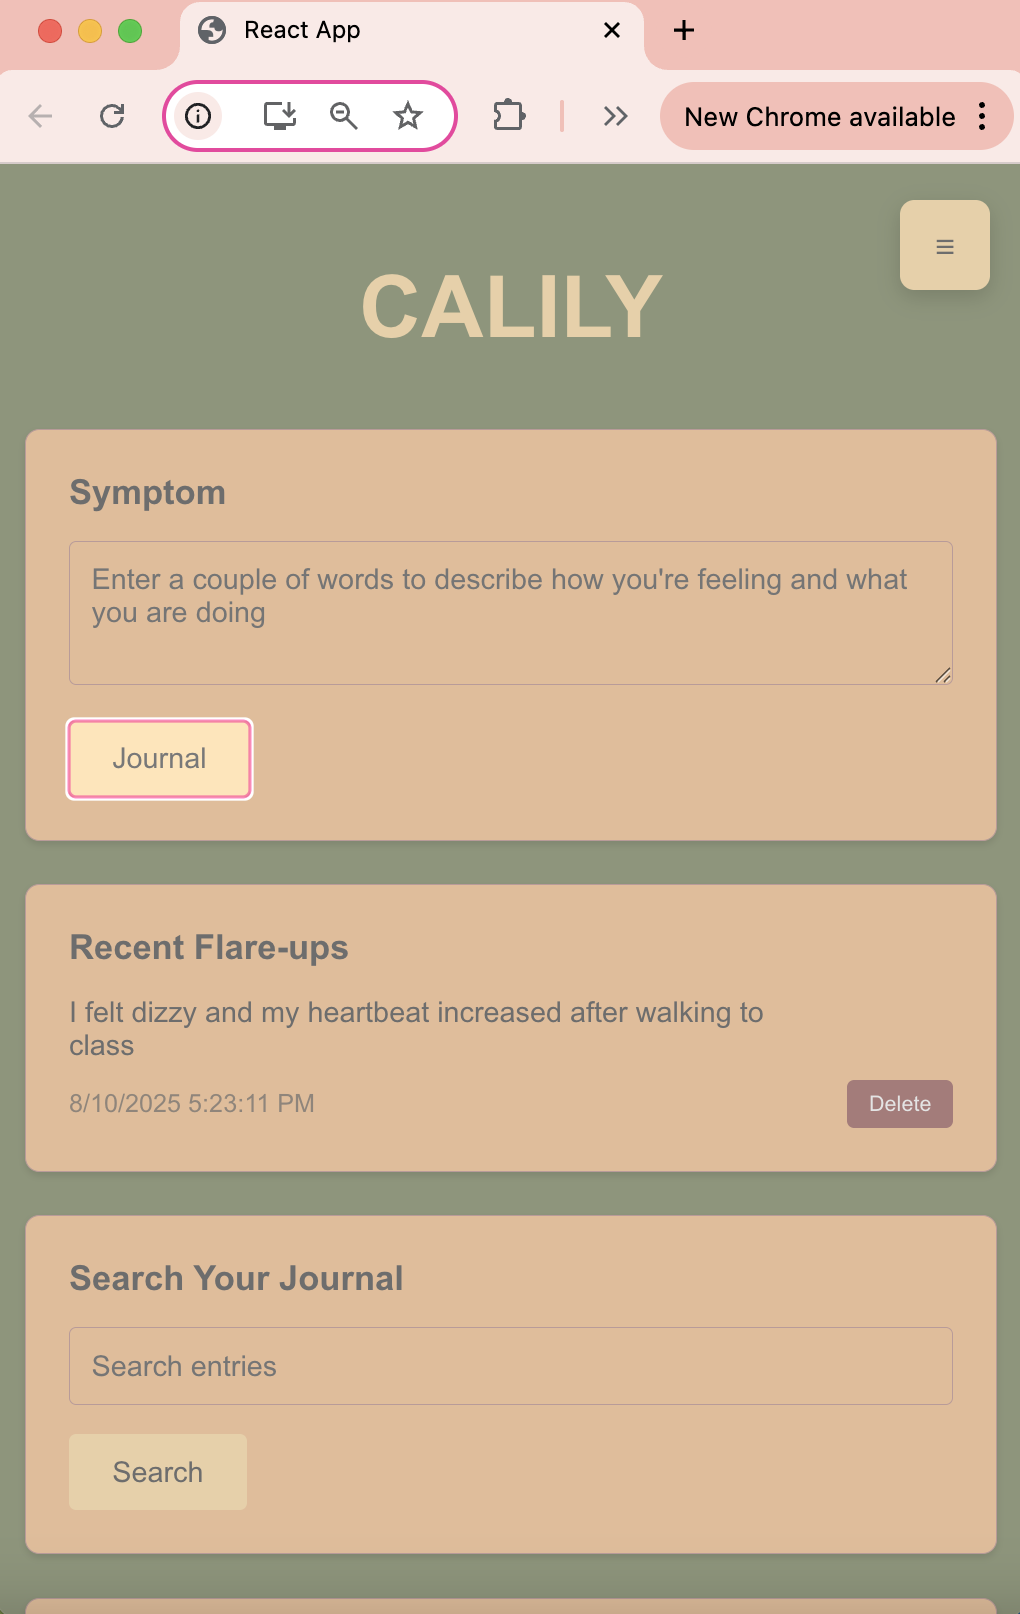
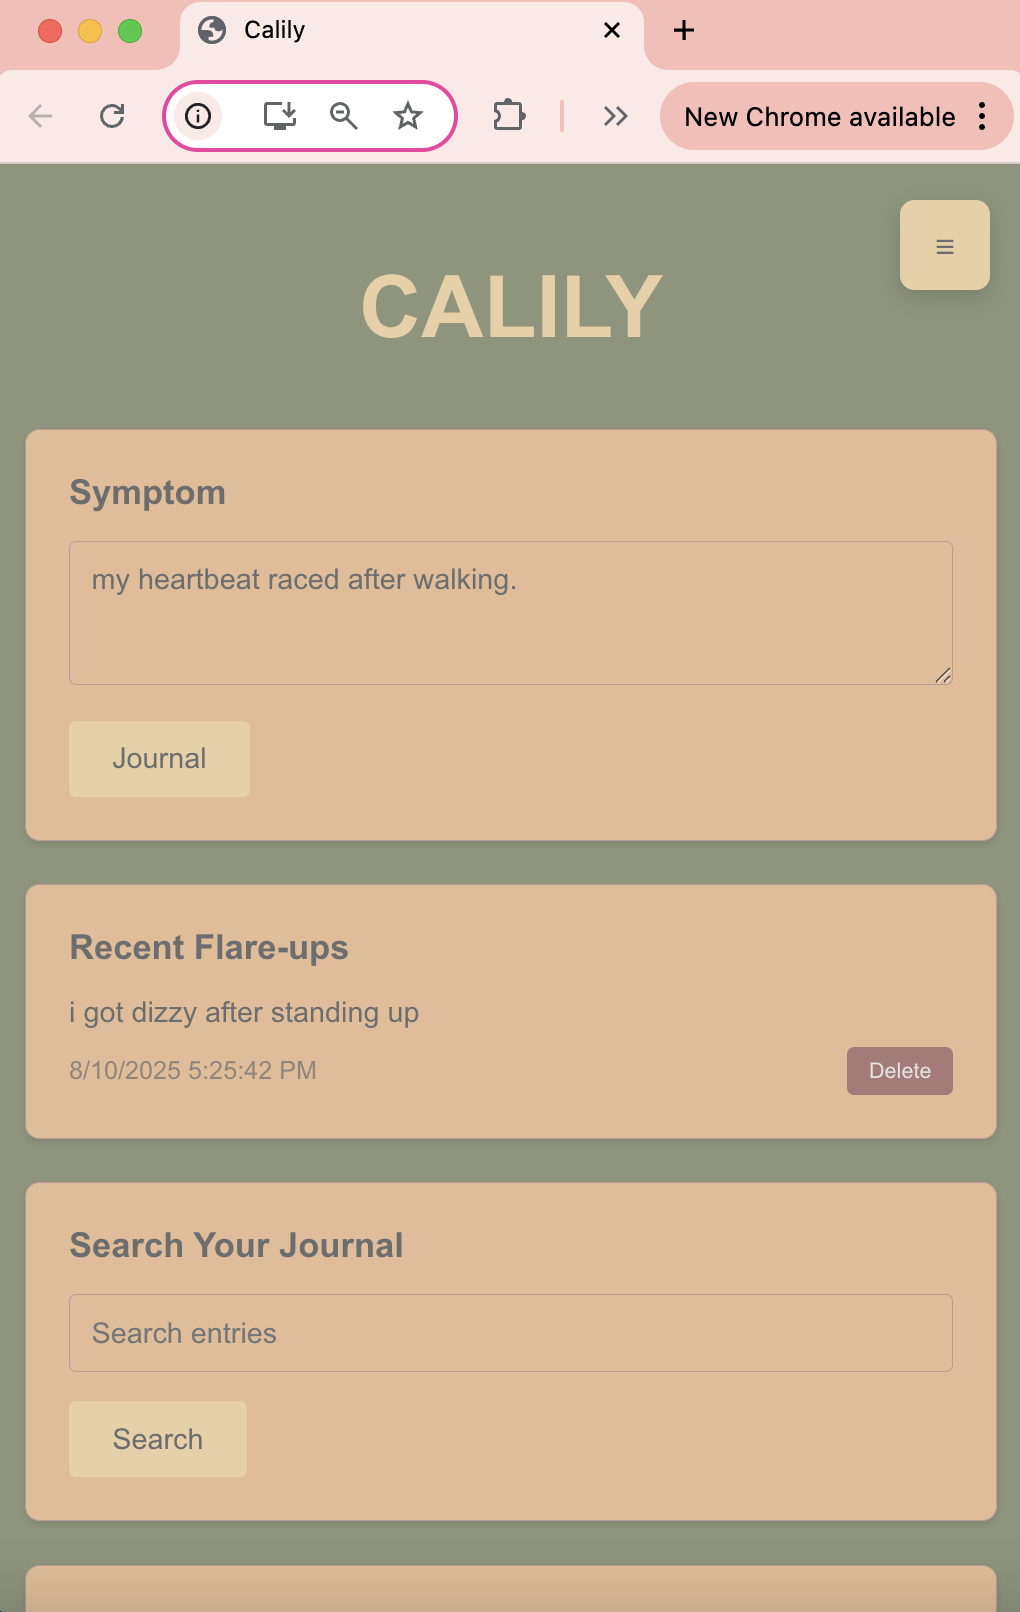
Updated app title and refreshed screenshots

diff --git a/src/components/ChartCard.js b/src/components/ChartCard.js
@@ -119,22 +119,6 @@ const ChartCard = ({ entries = [] }) => {
 
     g.append("g")
       .call(d3.axisLeft(yScale));
-
-    g.append("text")
-      .attr("transform", "rotate(-90)")
-      .attr("y", 0 - margin.left)
-      .attr("x", 0 - (height / 2))
-      .attr("dy", "1em")
-      .style("text-anchor", "middle")
-      .style("font-size", "12px")
-      .text("Frequency");
-
-    g.append("text")
-      .attr("transform", `translate(${width / 2}, ${height + margin.bottom - 10})`)
-      .style("text-anchor", "middle")
-      .style("font-size", "12px")
-      .text("Symptoms");
-
   }, [entries, themeChangeKey]); 
 
   return (

diff --git a/public/index.html b/public/index.html
@@ -24,7 +24,7 @@
       work correctly both with client-side routing and a non-root public URL.
       Learn how to configure a non-root public URL by running `npm run build`.
     -->
-    <title>React App</title>
+    <title>Calily</title>
   </head>
   <body>
     <noscript>You need to enable JavaScript to run this app.</noscript>
